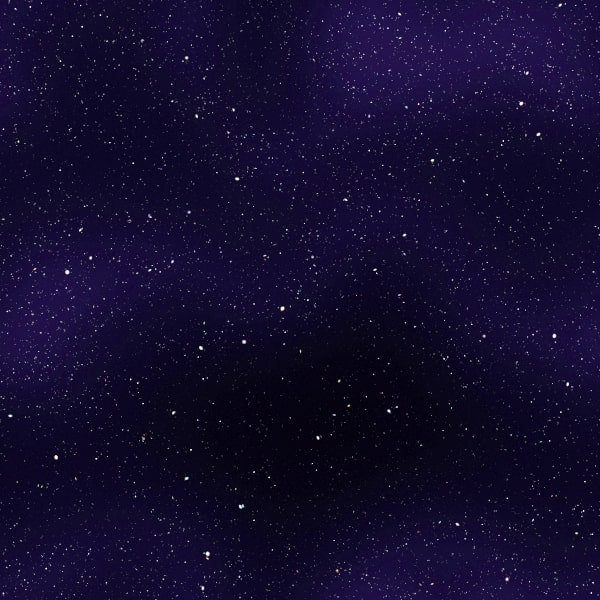
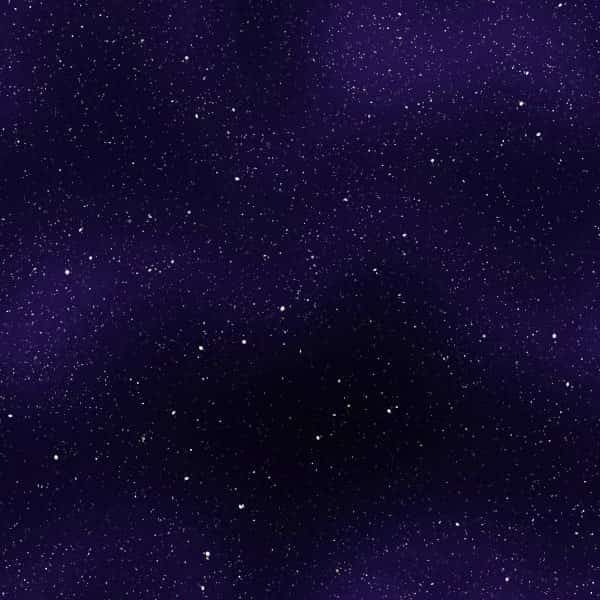
reducing background image size, replacing additional info with a short FAQ-style section

Changed region(s): [[0.66, 0.99, 0.69, 1.0]]

diff --git a/src/js/widgets/search_bar/templates/search_bar_template.html b/src/js/widgets/search_bar/templates/search_bar_template.html
@@ -61,45 +61,65 @@
         <div class="col-sm-12">
             <hr/>
         </div>
-        <div class="col-sm-6 first">
+        <div class="quick-reference">
+            <div class="col-sm-6">
 
-            <dl class="dl-horizontal">
-                <dt>author</dt>
-                <dd>author:"huchra, john"</dd>
-                <dt>first author</dt>
-                <dd>author:"^huchra, john"</dd>
-                <dt>abstract + title</dt>
-                <dd>abs:"dark energy"</dd>
-                <dt>year</dt>
-                <dd>year:2000</dd>
-                <dt>year range</dt>
-                <dd>year:2000-2005</dd>
-                <dt>full text</dt>
-                <dd>full:"gravitational waves"</dd>
-                <dt>publication</dt>
-                <dd>bibstem:ApJ <i class="icon-help" data-toggle="tooltip" title="this field requires the bibstem, or journal abbreviation--try going to the 'Paper' tab above for an easy-to-use form version"></i></dd>
-            </dl>
-        </div>
-        <div class="col-sm-6 second">
-            <dl class="dl-horizontal">
-                <dt>citations</dt>
-                <dd>citations(author:"huchra, j") <i class="icon-help" data-toggle="tooltip" title="finds all papers that cite a given set of papers"></i></dd>
-                <dt>references</dt>
-                <dd>references(author:"huchra, j") <i class="icon-help" data-toggle="tooltip" title="finds all papers referenced by a given set of papers"></i></dd>
-                <dt>reviews</dt>
-                <dd>reviews("gamma-ray bursts") <i class="icon-help" data-toggle="tooltip" title="finds articles citing the most relevant papers on the topic being researched"></i></dd>
-                <hr/>
-                <dt>refereed</dt>
-                <dd>property:refereed <i class="icon-help" data-toggle="tooltip" title="limit to non-refereed papers by searching property:notrefereed"></i></dd>
-                <dt>astronomy</dt>
-                <dd>database:astronomy <i class="icon-help" data-toggle="tooltip" title="limit to physics papers by searching database:physics"></i></dd>
-            </dl>
+                <dl class="dl-horizontal">
+                    <dt>author</dt>
+                    <dd>author:"huchra, john"</dd>
+                    <dt>first author</dt>
+                    <dd>author:"^huchra, john"</dd>
+                    <dt>abstract + title</dt>
+                    <dd>abs:"dark energy"</dd>
+                    <dt>year</dt>
+                    <dd>year:2000</dd>
+                    <dt>year range</dt>
+                    <dd>year:2000-2005</dd>
+                    <dt>full text</dt>
+                    <dd>full:"gravitational waves"</dd>
+                    <dt>publication</dt>
+                    <dd>bibstem:ApJ <i class="icon-help" data-toggle="tooltip" title="this field requires the bibstem, or journal abbreviation--try going to the 'Paper' tab above for an easy-to-use form version"></i></dd>
+                </dl>
+            </div>
+            <div class="col-sm-6  quick-reference">
+                <dl class="dl-horizontal">
+                    <dt>citations</dt>
+                    <dd>citations(author:"huchra, j") <i class="icon-help" data-toggle="tooltip" title="finds all papers that cite a given set of papers"></i></dd>
+                    <dt>references</dt>
+                    <dd>references(author:"huchra, j") <i class="icon-help" data-toggle="tooltip" title="finds all papers referenced by a given set of papers"></i></dd>
+                    <dt>reviews</dt>
+                    <dd>reviews("gamma-ray bursts") <i class="icon-help" data-toggle="tooltip" title="finds articles citing the most relevant papers on the topic being researched"></i></dd>
+                    <hr/>
+                    <dt>refereed</dt>
+                    <dd>property:refereed <i class="icon-help" data-toggle="tooltip" title="limit to non-refereed papers by searching property:notrefereed"></i></dd>
+                    <dt>astronomy</dt>
+                    <dd>database:astronomy <i class="icon-help" data-toggle="tooltip" title="limit to physics papers by searching database:physics"></i></dd>
+                </dl>
+            </div>
         </div>
 
-       <div class="col-sm-12">
-           <hr/>
-           <a href="https://adsabs.github.io/help/search/search-syntax" target="_blank" class="pull-right"> <i class="fa fa-arrow-circle-o-right"></i> learn more about ADS search syntax </a>
-       </div>
+        <div class="row ">
+            <div class="col-sm-12">
+                <hr style="margin:0 15px"/>
+            </div>
+        </div>
+
+
+        <div class="landing-faq row">
+                <dl class="col-sm-12">
+                    <dt> How can I learn more about searching the ADS? </dt>
+                    <dd><a href="https://adsabs.github.io/help/search/search-syntax" target="_blank"> Check out our help page on search terms.</a></dd>
+
+                    <dt> I want to use the old-style form instead of the new syntax!</dt>
+                    <dd>We have a <a href="#classic-form">form similar to the ADS Classic form</a> to simplify your life.</dd>
+
+                    <dt>How can I access ADS data programmatically?</dt>
+                    <dd><a href="https://github.com/adsabs/adsabs-dev-api" target="_blank">Learn about our convenient ADS API here.</a></dd>
+                    <dt>I still have questions!</dt>
+                    <dd>If the <a href="https://adsabs.github.io/" target="_blank">help pages</a> don't answer them, contact us at
+                        <a href="mailto:adshelp@cfa.harvard.edu"></a> adshelp@cfa.harvard.edu</dd>
+                </dl>
+        </div>
 
     </div>
 

diff --git a/src/js/wraps/landing_page_manager/landing-page-layout.html b/src/js/wraps/landing_page_manager/landing-page-layout.html
@@ -30,56 +30,6 @@
                 </div>
     </section>
 
-
-
-<!-- choice buttons-->
-
-<section class="s-bumblebee-info">
-    <div class="s-transparent-background">
-        <div class="features-wrapper">
-            <div class="col-sm-4">
-                <div>
-                    <h2 class="s-center-text">What is Bumblebee?</h2>
-
-                    <p>
-                        This new beta interface, codename "Bumblebee", offers a new way to search ADS: rather than searching only titles and abstracts,
-                        like "ADS Classic", Bumblebee allows you to search the full  text of articles as well. For more information about how to create powerful searches <a
-                            href="https://adsabs.github.io/help/search/search-syntax">click here</a>.
-                    </p>
-                </div>
-
-            </div>
-            <div class="col-sm-4">
-                <div>
-                    <h2 class="s-center-text">How can I collaborate?</h2>
-
-                    <p>
-                        All of Bumblebee's code is publically accessible at <a href="https://github.com/adsabs/bumblebee">Github.</a>
-                    </p>
-                    <p> You can programmatically access ADS Data by <a href="#/login"></a> making an account with ADS and signing up for an API key.
-                        For more information about the API, <a href="https://github.com/adsabs/adsabs-dev-api">check out the API README</a>.
-                    </p>
-                </div>
-
-            </div>
-            <div class="col-sm-4">
-                <div>
-                    <h2 class="s-center-text">Where can I find...? </h2>
-                    <p>
-                        You can still access  <a href="http://adsabs.harvard.edu/abstract_service.html">ADS Classic</a> and
-                        <a href="http://labs.adsabs.harvard.edu/">ADS 2.0</a>.
-
-                        To learn more about this new interface and all of
-                        its functionality, visit the <a href="http://adsabs.github.io/help/">new ADS help pages</a>.
-                    </p>
-                    <p> Have a comment or want to report a bug? Please use the feedback form in the navigation bar. </p>
-                </div>
-            </div>
-            <div class="clearfix"></div>
-        </div>
-    </div>
-</section>
-
 </div>
 
 

diff --git a/src/styles/sass/ads-sass/landing-page.scss b/src/styles/sass/ads-sass/landing-page.scss
@@ -8,7 +8,7 @@ $landing-page-hero-background : desaturate(lighten($brand-info, 20%), 15%);
 }
 
 .s-starry-background-wrapper {
-  background-image: linear-gradient(to bottom, rgba(0, 0, 0, 0.3), rgba(0, 0, 0, .7)), url("../img/background.jpg");
+  background-image: linear-gradient(to bottom, rgba(0, 0, 0, 0.2), rgba(0, 0, 0, .5)), url("../img/background.jpg");
   margin: 0 -15px;
   background-attachment: fixed;
 }
@@ -107,23 +107,6 @@ $landing-page-hero-background : desaturate(lighten($brand-info, 20%), 15%);
   h2 {
     color: $brand-primary-faded;
     font-size: 22px;
-  }
-
-  margin: 0 -15px;
-  background: url("../img/background.jpg") top center repeat fixed;
-  color: darken($text-color, 10%);
-
-  .s-transparent-background {
-    padding: 40px 0;
-  }
-
-  .features-wrapper {
-    background: white;
-    margin: 0 40px;
-  }
-
-  .features-wrapper .col-sm-4>div{
-    padding: 4%;
   }
 
   .s-bottom-line {
@@ -242,7 +225,6 @@ div[data-field=date] {
 
 .unobtrusive-landing-page-alert {
   padding: 16px;
-  text-align: center;
   border-bottom: 1px solid $gray-lighter;
+  text-align: center;
 }
-

diff --git a/src/styles/sass/ads-sass/search-bar.scss b/src/styles/sass/ads-sass/search-bar.scss
@@ -171,13 +171,17 @@ input.q {
 
 .s-landing-page-layout {
 
+  .only-show-on-landing {
+    display: block;
+  }
+
 
   .s-search-bar-widget {
     max-width: 800px;
     margin: auto;
   }
 
-  .only-show-on-landing {
+  .quick-reference {
     display: block;
     font-size: 17px;
     dl {
@@ -196,10 +200,10 @@ input.q {
 
     @media screen and (min-width:$screen-sm-min){
 
-      .col-sm-6.first{
+      .col-sm-6:first-of-type{
         width: 46%;
       }
-      .col-sm-6.second {
+      .col-sm-6:nth-of-type(2) {
         width: 54%;
       }
       dl {
@@ -218,3 +222,25 @@ input.q {
   }
 
 }
+
+.landing-faq {
+  text-align: center;
+  font-size: 16px;
+  dl {
+    margin-left: 15px;
+  }
+  dt {
+    font-weight:500;
+    margin-top: 25px;
+  }
+  dd {
+    font-weight: 300;
+    a {
+      font-weight: normal;
+    }
+  }
+
+}
+
+
+

diff --git a/src/styles/sass/manifest.scss b/src/styles/sass/manifest.scss
@@ -1,7 +1,11 @@
-$fa-font-path : '../../libs/fontawesome/';
+
+$fa-font-path:        "//netdna.bootstrapcdn.com/font-awesome/4.6.3/fonts";  // for referencing Bootstrap CDN font files directly
+
 @import '../../libs/fontawesome/scss/font-awesome';
 @import '../../libs/jqueryui/jquery-ui.min';
 @import '../../libs/select2/select2';
+
+
 
 //not using at the moment
 //@import '../../libs/animate.css/animate';
